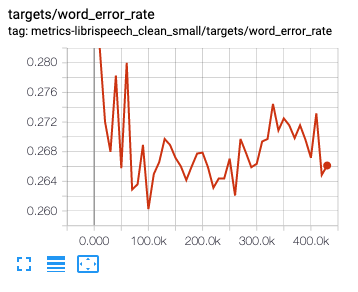
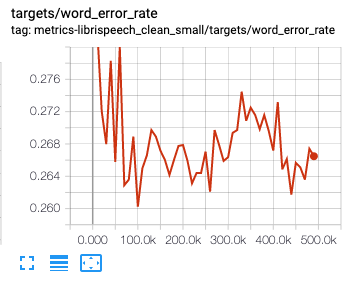
training done

diff --git a/README.md b/README.md
@@ -10,9 +10,11 @@ Implementation of [SpecAugment: A Simple Data Augmentation Method for Automatic 
 * Details are clearly explained in the paper.
 * While the first one, time warping, looks salient apparently, [Daniel](danielspark@google.com), the first author, told me that indeed the other two are much more important than time warping, so it can be ignored if necessary. (Thanks for the advice, Daniel!)
 * I found that implementing time warping with TensorFlow is tricky because the relevant functions are based on the static shape of the melspectrogram tensor, which is hard to get from the pre-defined graph.
-* Reserving it for a future task, I test frequency / time masking on [Tensor2tensor](https://github.com/tensorflow/tensor2tensor)'s LibriSpeech Clean Small Task rather than the full set.
+* I test frequency / time masking on [Tensor2tensor](https://github.com/tensorflow/tensor2tensor)'s LibriSpeech Clean Small Task.
+* The paper used the LAS model, but I stick to Transformer.
+* To compare the effect of specAugment, I also run a base model, which is without augmentation.
 * With 4 GPUs, training (for 500K) seems to take more than a week.
-* To compare the effect of specAugment, I also run a vanilla model.
+
 
 ## Requirements
 * TensorFlow==1.12.0
@@ -84,8 +86,7 @@ t2t-trainer \
 ### Training loss
 <img src="loss.png">
 
-* Currently, the base model reached almost 500K, while the specAugment model is still being trained.
-* Augmentation seems to do harm on training loss. It is understandable and expected.
+* Apparently augmentation seems to do harm on training loss. It is understandable and expected.
 
 ### Word Error Rate (SpecAugment (top) vs. No augmentation (bottom))
 
@@ -93,4 +94,4 @@ t2t-trainer \
 <img src="no_WER.png">
 
 * The base model looks messy. The WER hangs around 26%, which is bad.
-* The specAugment model looks better, and it is likely to keep improving. I don't think the WER will go down to 10%, though.
+* The specAugment model looks much neater. The WER got 20% after 500k of training. I don't think it is good enough, though.
